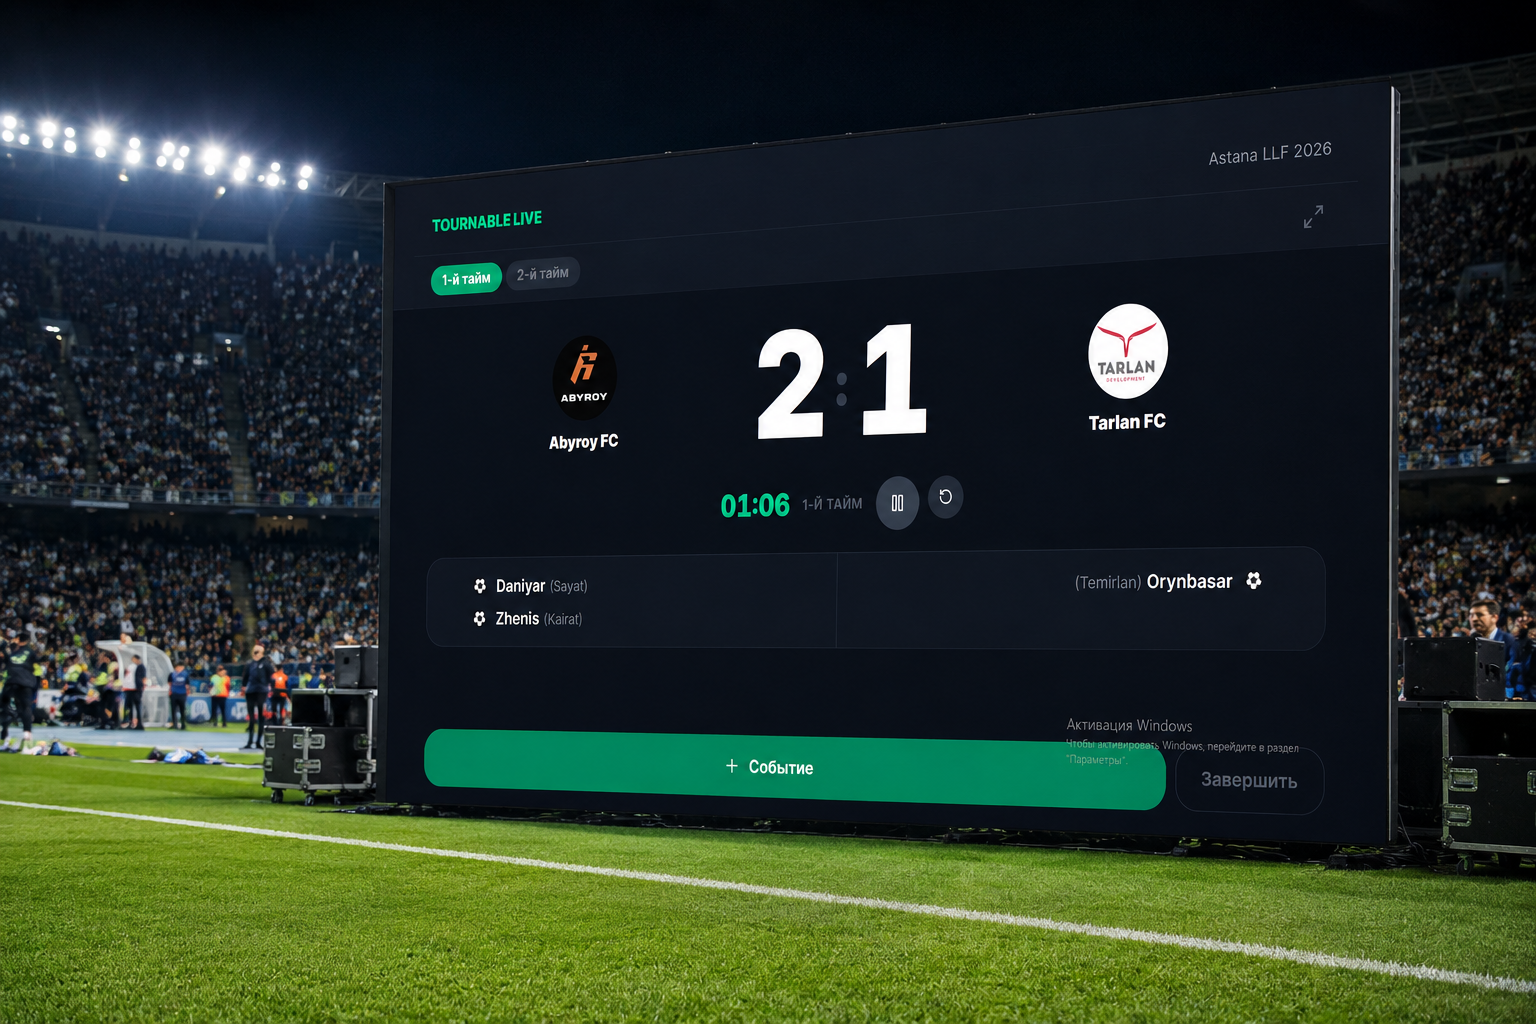
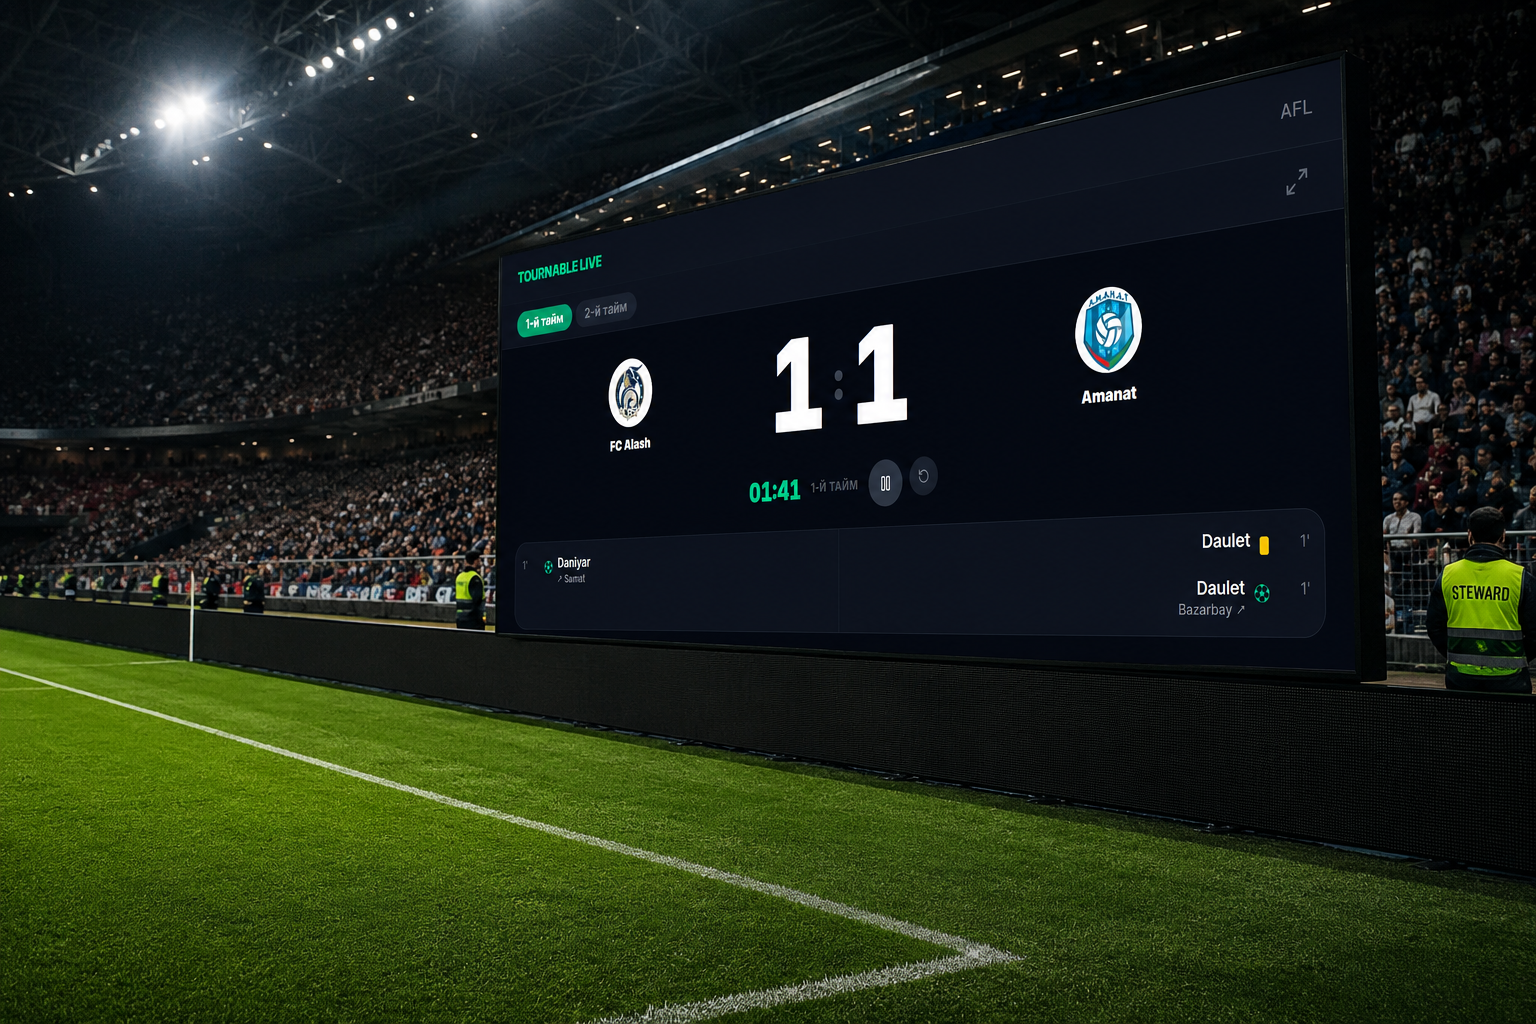
feat: landing hero — dark background images, LED section photo replaced
- Hero: full-bleed dark green background (desktop + mobile variants),
  white text overlay, gradient for legibility, laptop/LED in background
- LED section: replaced with stadium scoreboard photo
- Removed static laptop Image component from hero JSX

diff --git a/src/components/landing/LandingPage.tsx b/src/components/landing/LandingPage.tsx
@@ -524,41 +524,38 @@ export function LandingPage({ isLoggedIn = false, defaultLang = 'ru', userInitia
       </header>
 
       {/* ── Hero ────────────────────────────────────────────────────────────── */}
-      <section className="relative overflow-hidden bg-white pt-16 pb-12 lg:pt-24 lg:pb-16">
-        <div className="absolute inset-0 pointer-events-none" style={{ backgroundImage: 'radial-gradient(circle, #e5e7eb 1px, transparent 1px)', backgroundSize: '28px 28px', opacity: .5 }} />
-        <div className="absolute inset-0 bg-gradient-to-b from-white via-white/50 to-white pointer-events-none" />
-        <div className="relative max-w-6xl mx-auto px-4 sm:px-6">
-          <div className="grid lg:grid-cols-2 gap-12 items-center">
-            <div>
-              <div className="inline-flex items-center gap-2 bg-emerald-50 text-emerald-700 text-xs font-semibold px-3 py-1.5 rounded-full mb-7 border border-emerald-100">
-                <span className="w-1.5 h-1.5 rounded-full bg-emerald-500 inline-block" />
+      <section className="relative overflow-hidden bg-[#0a2218] min-h-[500px] lg:min-h-[600px]">
+        {/* Desktop background */}
+        <Image src="/screens/hero-desktop.png" alt="" fill sizes="100vw"
+          className="object-cover object-center hidden lg:block" priority />
+        {/* Mobile background */}
+        <Image src="/screens/hero-mobile.png" alt="" fill sizes="100vw"
+          className="object-cover object-center block lg:hidden" priority />
+        {/* Gradient overlay — ensures text legibility on left (desktop) / top (mobile) */}
+        <div className="absolute inset-0 bg-gradient-to-r from-[#0a2218]/85 via-[#0a2218]/40 to-transparent hidden lg:block pointer-events-none" />
+        <div className="absolute inset-0 bg-gradient-to-b from-[#0a2218]/80 via-[#0a2218]/30 to-transparent block lg:hidden pointer-events-none" />
+        {/* Content */}
+        <div className="relative pt-14 pb-20 lg:pt-20 lg:pb-32">
+          <div className="max-w-6xl mx-auto px-4 sm:px-6">
+            <div className="lg:max-w-[52%]">
+              <div className="inline-flex items-center gap-2 bg-white/10 text-emerald-300 text-xs font-semibold px-3 py-1.5 rounded-full mb-7 border border-white/15">
+                <span className="w-1.5 h-1.5 rounded-full bg-emerald-400 inline-block" />
                 {tx.hero.badge}
               </div>
-              <h1 className="text-[1.7rem] sm:text-[2.1rem] lg:text-[2.5rem] font-black leading-[1.08] tracking-tight text-gray-900 mb-5" style={{ letterSpacing: '-.03em' }}>
+              <h1 className="text-[1.7rem] sm:text-[2.1rem] lg:text-[2.5rem] font-black leading-[1.08] tracking-tight text-white mb-5" style={{ letterSpacing: '-.03em' }}>
                 {tx.hero.h1[0]}<br />
                 {tx.hero.h1[1]}<br />
-                <span className="text-emerald-600">{tx.hero.h1[2]}</span>
+                <span className="text-emerald-400">{tx.hero.h1[2]}</span>
               </h1>
-              <p className="text-lg text-gray-500 leading-relaxed mb-8 max-w-md">{tx.hero.sub}</p>
-              <div className="flex flex-wrap items-center gap-3 mb-6">
-                <Link href={`/register${lang !== 'ru' ? `?lang=${lang}` : ''}`} className="inline-flex items-center gap-2 bg-emerald-600 hover:bg-emerald-700 text-white font-semibold text-[15px] px-6 py-3.5 rounded-xl transition-colors shadow-lg shadow-emerald-100">
+              <p className="text-base text-white/70 leading-relaxed mb-8 max-w-md">{tx.hero.sub}</p>
+              <div className="flex flex-wrap items-center gap-3">
+                <Link href={`/register${lang !== 'ru' ? `?lang=${lang}` : ''}`} className="inline-flex items-center gap-2 bg-emerald-500 hover:bg-emerald-400 text-white font-semibold text-[15px] px-6 py-3.5 rounded-xl transition-colors shadow-lg shadow-black/30">
                   {tx.hero.cta} <ArrowRight className="w-4 h-4" />
                 </Link>
-                <a href="#how" className="inline-flex items-center gap-1.5 text-gray-500 hover:text-gray-900 font-medium text-sm px-4 py-3.5 transition-colors">
+                <a href="#how" className="inline-flex items-center gap-1.5 text-white/60 hover:text-white font-medium text-sm px-4 py-3.5 transition-colors">
                   {tx.hero.cta2} <ChevronRight className="w-4 h-4" />
                 </a>
               </div>
-            </div>
-            {/* Real laptop photo */}
-            <div className="relative">
-              <div className="absolute -inset-6 bg-gradient-to-br from-emerald-50/80 to-transparent rounded-[40px] -z-10" />
-              <Image
-                src="/screens/laptop.png"
-                alt="Tournable — турнирная таблица"
-                width={900} height={600}
-                className="w-full rounded-xl shadow-2xl"
-                priority
-              />
             </div>
           </div>
         </div>